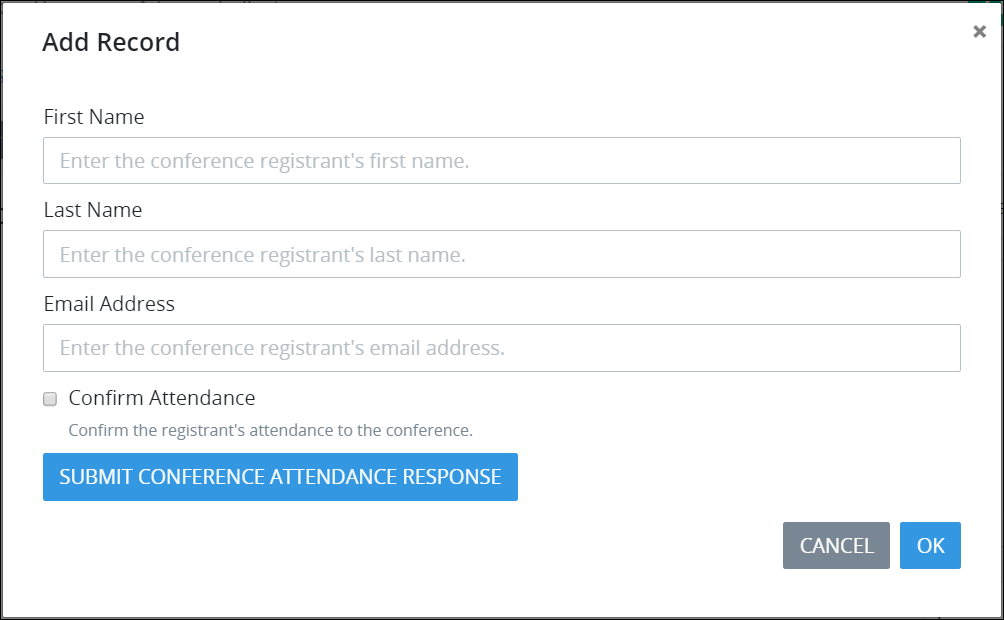
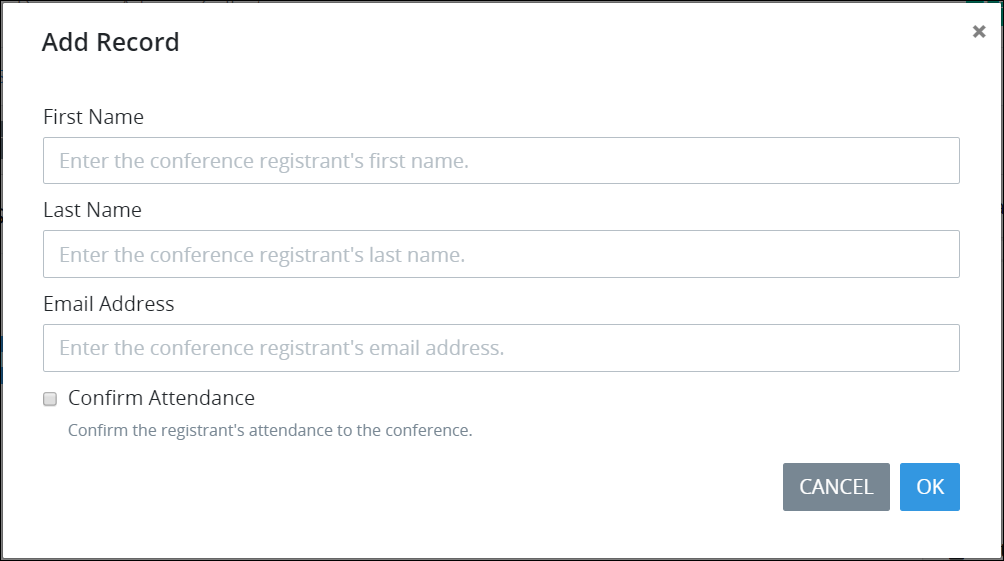
GitBook: [processmaker] one page and one asset modified

diff --git a/designing-processes/design-forms/screens-builder/control-descriptions/record-list-control-settings.md b/designing-processes/design-forms/screens-builder/control-descriptions/record-list-control-settings.md
@@ -99,8 +99,8 @@ Follow these steps to add this control to the ProcessMaker Screen:
    **Form-type ProcessMaker Screen:**
 
    1. Create a new page in this ProcessMaker Screen. Use this page to design how the Request participant enters data that the Record List control records. The page that records the submitted records cannot be on the same page as the Record List control. See [Add a New Page to a ProcessMaker Screen](../add-a-new-page-to-a-screen.md#add-a-new-page-to-a-processmaker-screen).
-   2. On the new page, design the form using controls from which the Request participant enters the data component that the Record List control receives for each record. In each of the controls that receives a data component for each record, make note of the **Variable Name** setting values for each control; these values correspond with how the Record List control displays the record list in the **Value** parameter for each column.
-   3. Return to the page that the Record List control is placed, and then configure the Record List control. See [Settings](record-list-control-settings.md#inspector-settings).
+   2. On the new page, design the form using controls from which the Request participant enters the data component that the Record List control receives for each record. In each of the controls that receives a data component for each record, make note of the **Variable Name** setting values for each control; these values correspond with how the Record List control displays the record list in the **Value** parameter for each column. Do not place a [Submit Button](submit-button-control-settings.md#control-description) control on the new page; otherwise, the [Task](../../../../using-processmaker/task-management/what-is-a-task.md) cannot be submitted during a Request.
+   3. Return to the page that the Record List control is placed, and then configure the Record List control. See [Settings](record-list-control-settings.md#inspector-settings). Ensure to add a Submit Button or [Page Navigation](page-navigation-button-control-settings.md#control-description) control on the page containing the Record List control so that the Task can be submitted after all records have been added to the record list during a Request.
 
    **Display-type ProcessMaker Screen:**
 
